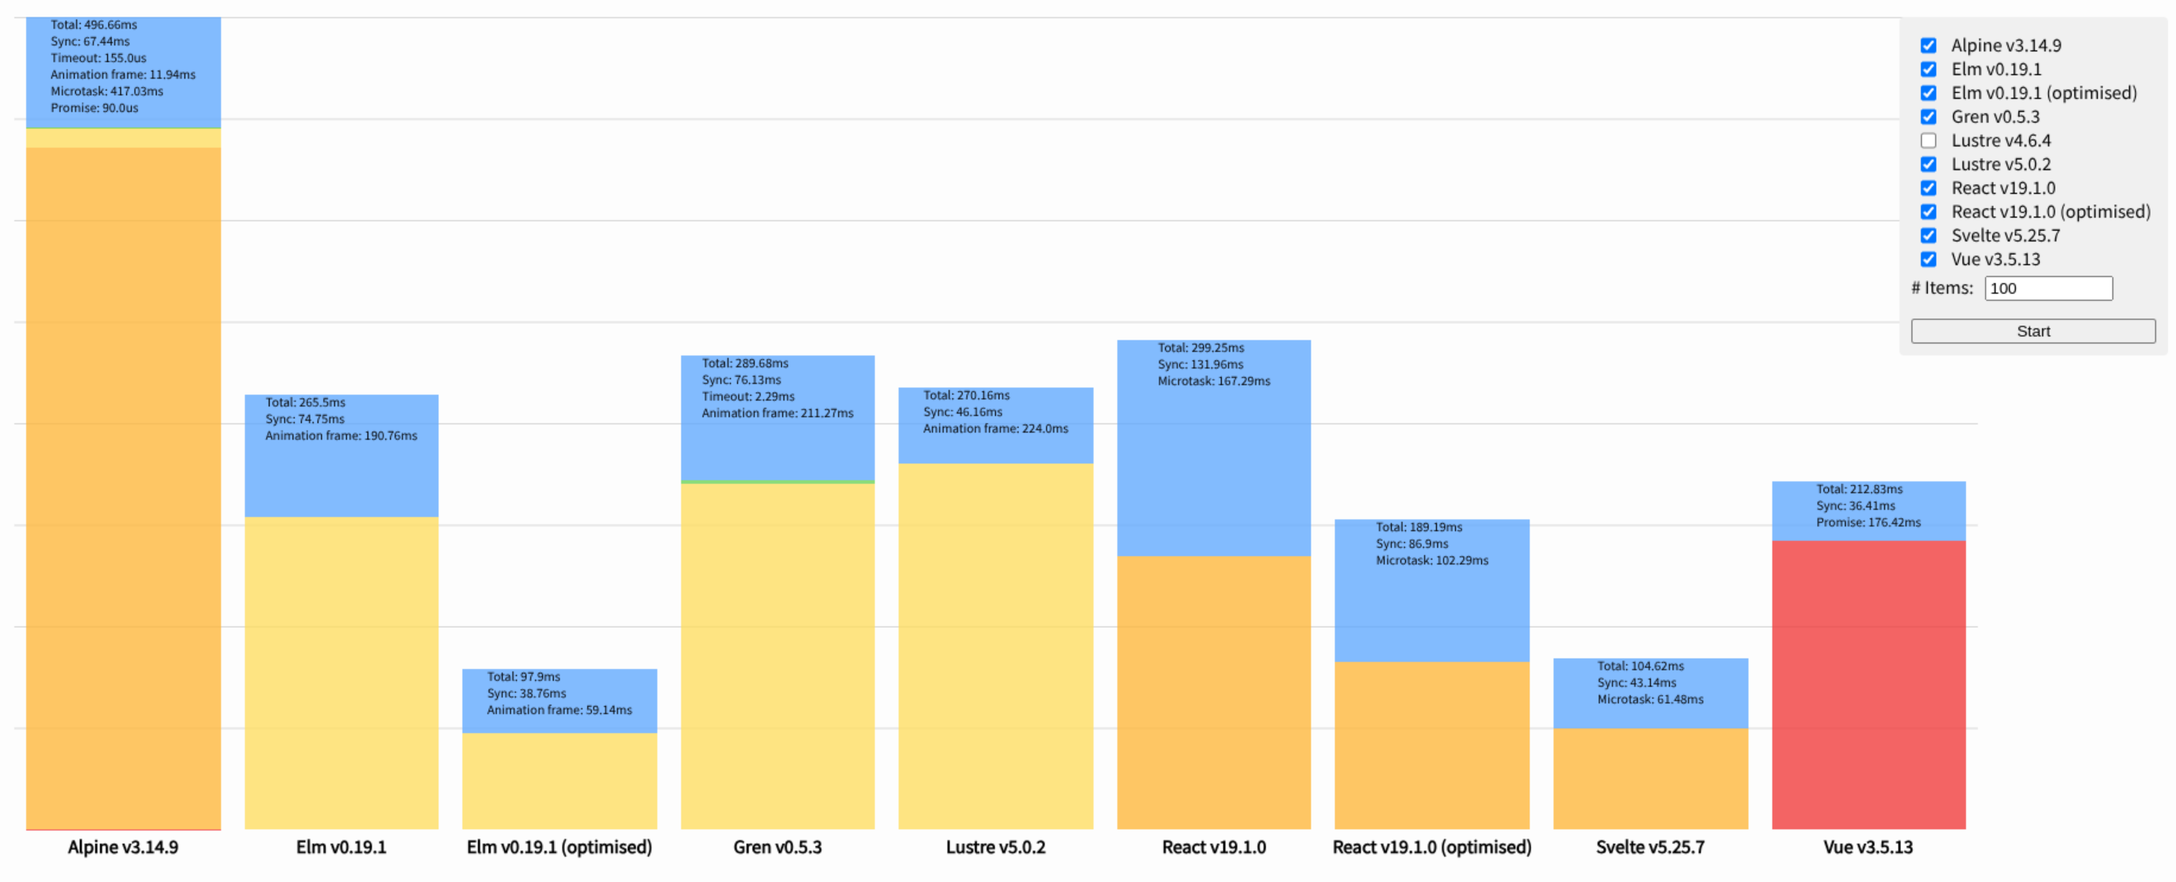
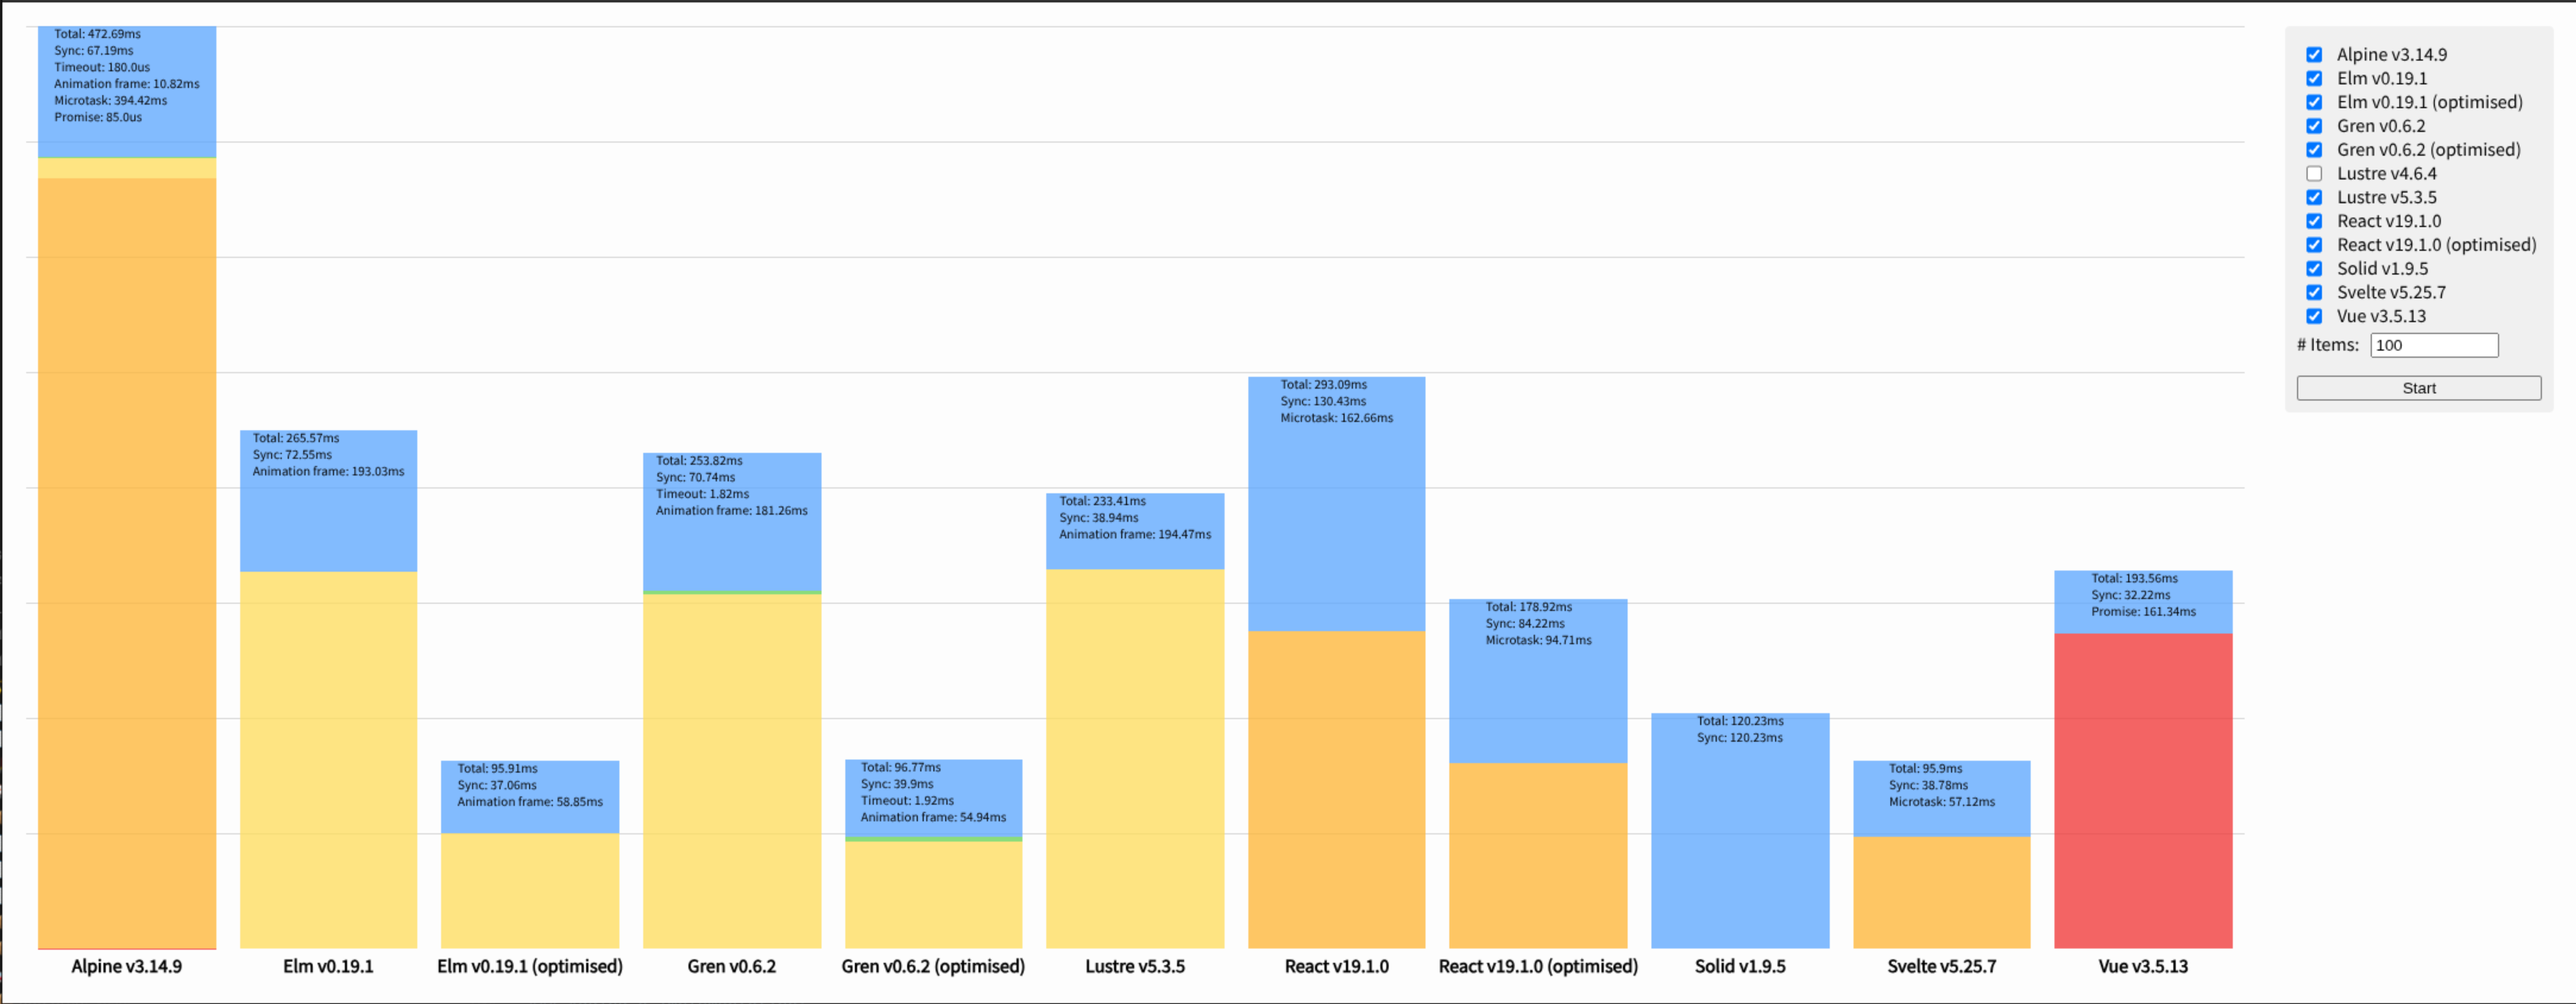
:memo: update readme

Changed region(s): [[0.0, 0.0, 0.9286, 0.9767], [0.8667, 0.0305, 0.9905, 0.3968], [0.0, 0.9767, 0.031, 1.0]]

diff --git a/README.md b/README.md
@@ -59,16 +59,8 @@ for production.
 ![](./docs/results-100.png)
 ![](./docs/results-1000.png)
 
-Measurements were taken using an AMD Ryzen™ 7 1700X and Chromimum 135.0.7049.95,
-running on NixOS 25.05. Lustre was built using Gleam 1.11.
-
-> [!NOTE]
-> At the time of writing, Gleam 1.11 has not yet been released; instead, this
-> benchmark uses the _nightly_ pre-release of the compiler. We expect the final
-> release to produce code at least as fast as the benchmarked nightly build and
-> will validate this result once 1.11 releases. \
-> Using Gleam 1.10 does not have a significant performance impact on the 100
-> element benchmark, but is approximately 25% slower for 1000 elements.
+Measurements were taken using an AMD Ryzen™ 7 1700X and Chromimum 139.0.7258.66,
+running on NixOS 25.11. Lustre was built using Gleam 1.12.
 
 All VDOM-based frameworks - Elm, Gren, Lustre 5, React, and Vue - are extremely
 close, with variations in the single-digit millisecond range over the entire run
